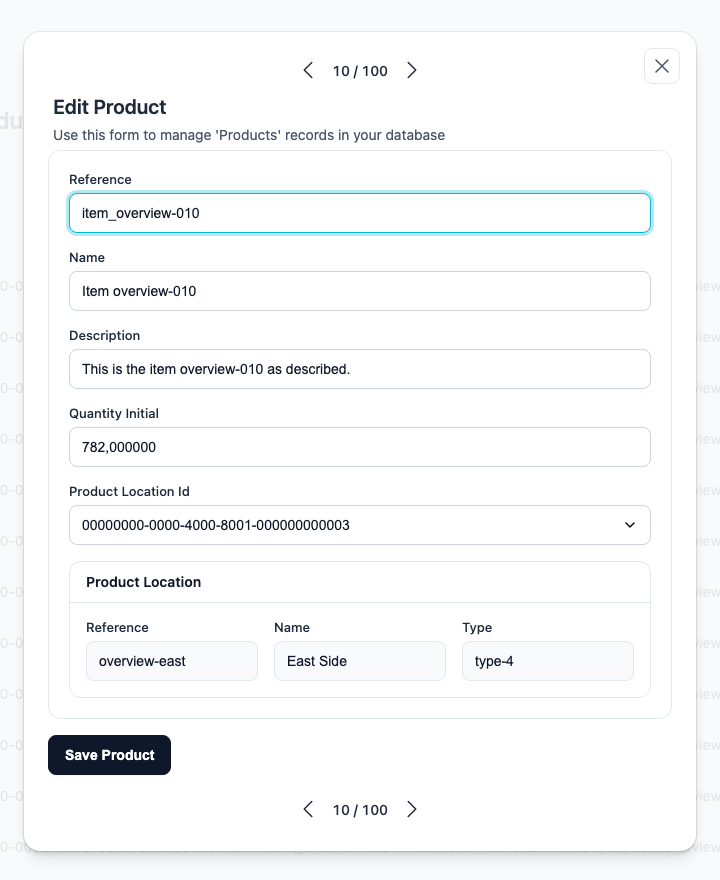
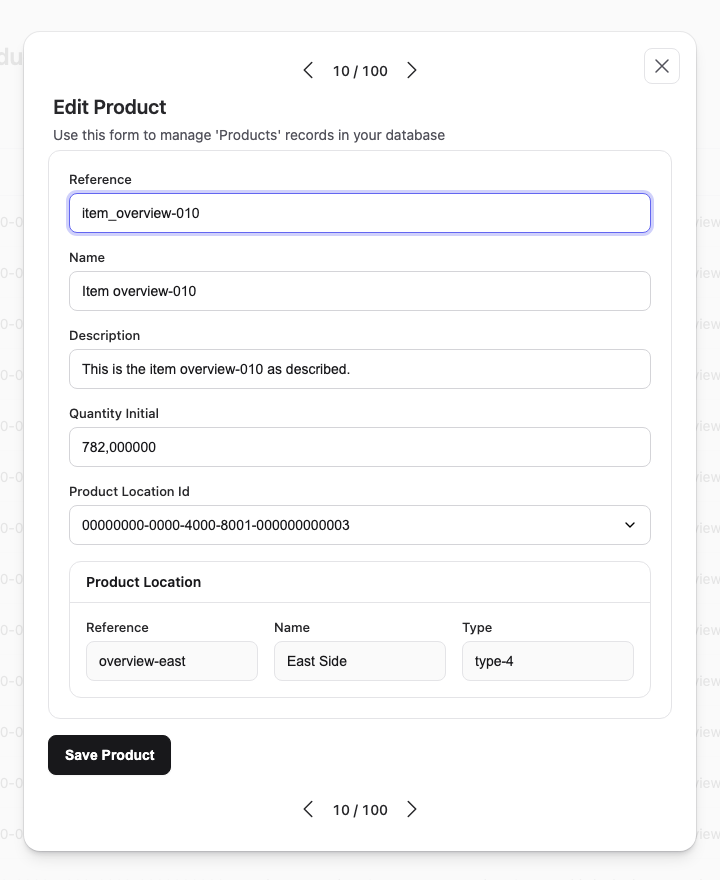
merge - docs: regenerate the guide screenshots with the default theme (#698)
* docs: regenerate the guide screenshots with the default theme

The committed images used a local theme override. Captured in a clean
worktree, as the release steps now require. Corrects the nested sections
description.

Claude-Session: https://claude.ai/code/session_01YKupPdqSwq2Tt3fPmbPWKK

* docs: note the removed space above the index title

Claude-Session: https://claude.ai/code/session_01YKupPdqSwq2Tt3fPmbPWKK

---------

Changed region(s): [[0.0917, 0.2148, 0.9167, 0.2761]]

diff --git a/CHANGELOG.md b/CHANGELOG.md
@@ -92,6 +92,7 @@ breaking changes: see the What's New guide for the upgrade checklist.
 - **Theme of embedded components**: only the generated index LiveView set `data-theme-name` on
   `<html>`, so a page that only embeds the index, form or show components got no theme colors. Every
   component now renders the `AuixThemeName` hook, which reads the theme name from its element.
+  The generated index also loses the empty space it had above its title on wide screens.
 - **`data-theme="light"` under an OS dark preference**: the built-in themes applied their dark colors
   in `@media (prefers-color-scheme: dark)` whatever `data-theme` said, so an explicit light choice
   stayed dark. The media query now skips `[data-theme="light"]`.
@@ -230,6 +231,8 @@ breaking changes: see the What's New guide for the upgrade checklist.
   button.
 - Documented examples of the CRUD modules, the theme helper and the layout option lookup were
   corrected.
+- Guide screenshots were regenerated with the default White Charcoal theme, and the nested
+  sections example describes what they show.
 - Guides were checked again after the latest fixes: how Ash actions are picked, refused deletes,
   filter-panel actions, the dependency requirements of a new application, the icons error and the
   theme name of embedded components.

diff --git a/guides/core/layouts.md b/guides/core/layouts.md
@@ -267,9 +267,9 @@ Combine all layout types for sophisticated UIs:
 ```
 
 **Result**:
-- Top section: Reference and name in the same row
-- Middle: Nested section inside the first tab containing description and quantities
-- Information tab: Nested section inside the information top level tab containing price related fields 
+- "References" tab: reference and name in one row, followed by the nested tabs "Descriptions"
+  (description and status) and "Specifications" (dimensions and weight)
+- "Information" tab: the nested tabs "Quantities" and "Sale Prices", the latter open by default
 
 <div align="center">
     <img src="./images/layouts/nested_1-desktop.png" width="600"/>

diff --git a/.claude/skills/prepare-release/SKILL.md b/.claude/skills/prepare-release/SKILL.md
@@ -80,7 +80,10 @@ the images would not show the real UI. It must exit `0`.
 
 ## 5. Screenshots
 
-`mix test test/guides/capture_*.exs`
+`mix test test/guides/capture_*.exs`, run in a **clean temporary worktree**: a checkout with a local
+`config/test.exs` (gitignored) can set another theme, and the images must show the default one. In the
+worktree build the assets (step 4), create and migrate the test database, run the captures, copy the
+changed PNGs back, then remove the worktree and run `scripts/test_pg.sh sweep`.
 
 Overwrites the PNGs in `guides/overview/images`, `guides/core/images/layouts`
 and `guides/core/images/ash` (desktop 1024×768, mobile 412×915) through
